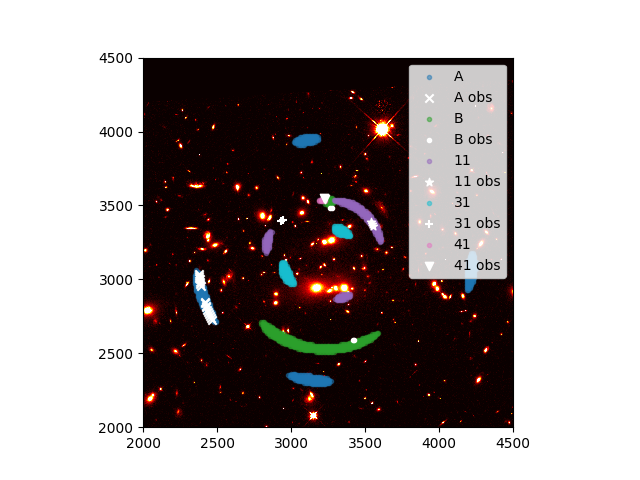
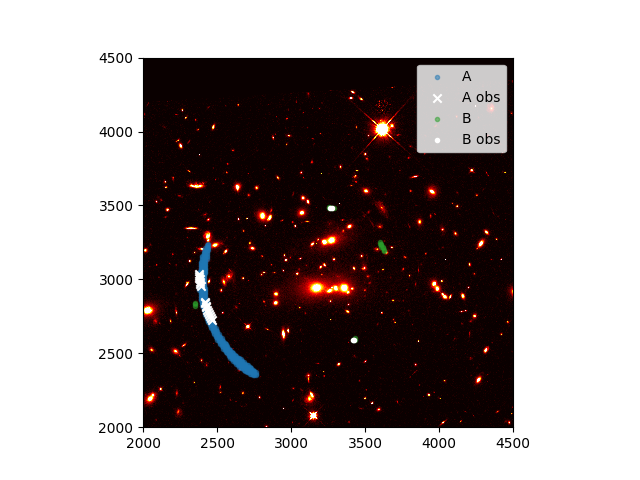
Using indexes with np.where function. Exact same functionality - but just making it easier for new method where the x, y before get_deflections doesn't need to be equally spaced meshgrid.

diff --git a/lensing/get_img_pos.py b/lensing/get_img_pos.py
@@ -55,6 +55,7 @@ def plot_img_pos(pars, pix_scale=1., threshold=0.8, fits_file=None, img_xobs=Non
 
     image_plane, image_coords_pred = {}, {}
     for name in names:
+        # x, y = np.meshgrid(img_xobs[name], img_yobs[name])
         x_src, y_src = pylens.getDeflections(lenses, [x, y], d=d[name])
         image_plane[name] = srcs[name].pixeval(x_src, y_src)
         plt.figure()
@@ -62,7 +63,8 @@ def plot_img_pos(pars, pix_scale=1., threshold=0.8, fits_file=None, img_xobs=Non
         plt.xlabel('%dx - %d pixels' % (pix_scale, sa[0]))
         plt.ylabel('%dy - %d pixels' % (pix_scale, sa[0]))
         plt.savefig(os.path.join(ROOT_DIR, fig_dir, 'image_plane%s.png' % name))
-        image_coords_pred[name] = np.add(np.multiply(np.where(image_plane[name] > threshold)[::-1], pix_scale), sa[0])
+        image_indexes_pred = np.where(image_plane[name] > threshold)
+        image_coords_pred[name] = np.array([x[image_indexes_pred], y[image_indexes_pred]])
         print(name, image_coords_pred[name])
 
     colors = (col for col in ['#1f77b4', '#2ca02c', '#9467bd', '#17becf', '#e377c2'])
@@ -118,8 +120,8 @@ def get_macs0451_img_pos(pix_scale=1., threshold=0.8, fits_file=None, img_xobs=N
     x, y = np.meshgrid(np.arange(sa[0], sa[1], pix_scale), np.arange(sa[0], sa[1], pix_scale))
 
     # MCMC setup
-    nwalkers = 200
-    nsteps = 300
+    nwalkers = 1000
+    nsteps = 3000
 
     # Define likelihood function
     @pymc.observed
@@ -132,11 +134,13 @@ def get_macs0451_img_pos(pix_scale=1., threshold=0.8, fits_file=None, img_xobs=N
 
         for name in names:
             # Calculate deflections
+            # x, y = np.meshgrid(img_xobs[name], img_yobs[name])
             x_src, y_src = pylens.getDeflections(lenses, [x, y], d[name])
 
             # Get list of predicted image coordinates
             image_plane = srcs[name].pixeval(x_src, y_src)
-            image_coords_pred = np.add(np.multiply(np.where(image_plane > threshold)[::-1], pix_scale), sa[0])  # Only if brightness > threshold
+            image_indexes_pred = np.where(image_plane[name] > threshold)
+            image_coords_pred = np.array([x[image_indexes_pred], y[image_indexes_pred]]) # Only if brightness > threshold
 
             if not image_coords_pred.size:  # If it's an empty list
                 return -1e30
@@ -181,7 +185,7 @@ def get_macs0451_img_pos(pix_scale=1., threshold=0.8, fits_file=None, img_xobs=N
             pylab.plot(samples[:, j, i])
 
     # Trim initial samples (ie the burn-in) and concatenate chains
-    burn = 50
+    burn = 200
     samples = samples[burn:].reshape(((nsteps-burn) * nwalkers, len(pars)))
 
     # Get best fit parameters
@@ -245,9 +249,9 @@ def main():
 
     pix_scale = 10.
     threshold = 0.01
-    pars = [3.49212756e+03,3.08381379e+03,8.06085547e+00,3.00192697e+03 ,2.96770223e+03,2.17208719e+00,3.13876545e+03,2.97884105e+03 ,1.50779124e+03,4.90424861e-01,1.04010643e+02]
-    # plot_img_pos(pars, pix_scale=pix_scale, threshold=threshold, fits_file=fits_file_macs0451, img_xobs=img_xobs, img_yobs=img_yobs, d=d)
-    get_macs0451_img_pos(pix_scale=pix_scale, threshold=threshold, fits_file=fits_file_macs0451, img_xobs=img_xobs, img_yobs=img_yobs, d=d, init=init)
+    pars = [  3.49212756e+03, 3.08381379e+03, 8.06085547e+00, 3.00192697e+03, 2.96770223e+03, 2.17208719e+00, 3.13876545e+03, 2.97884105e+03, 1.50779124e+03, 4.90424861e-01, 1.04010643e+02]
+    plot_img_pos(pars, pix_scale=pix_scale, threshold=threshold, fits_file=fits_file_macs0451, img_xobs=img_xobs, img_yobs=img_yobs, d=d)
+    # get_macs0451_img_pos(pix_scale=pix_scale, threshold=threshold, fits_file=fits_file_macs0451, img_xobs=img_xobs, img_yobs=img_yobs, d=d, init=init)
 
     plt.show()
 
